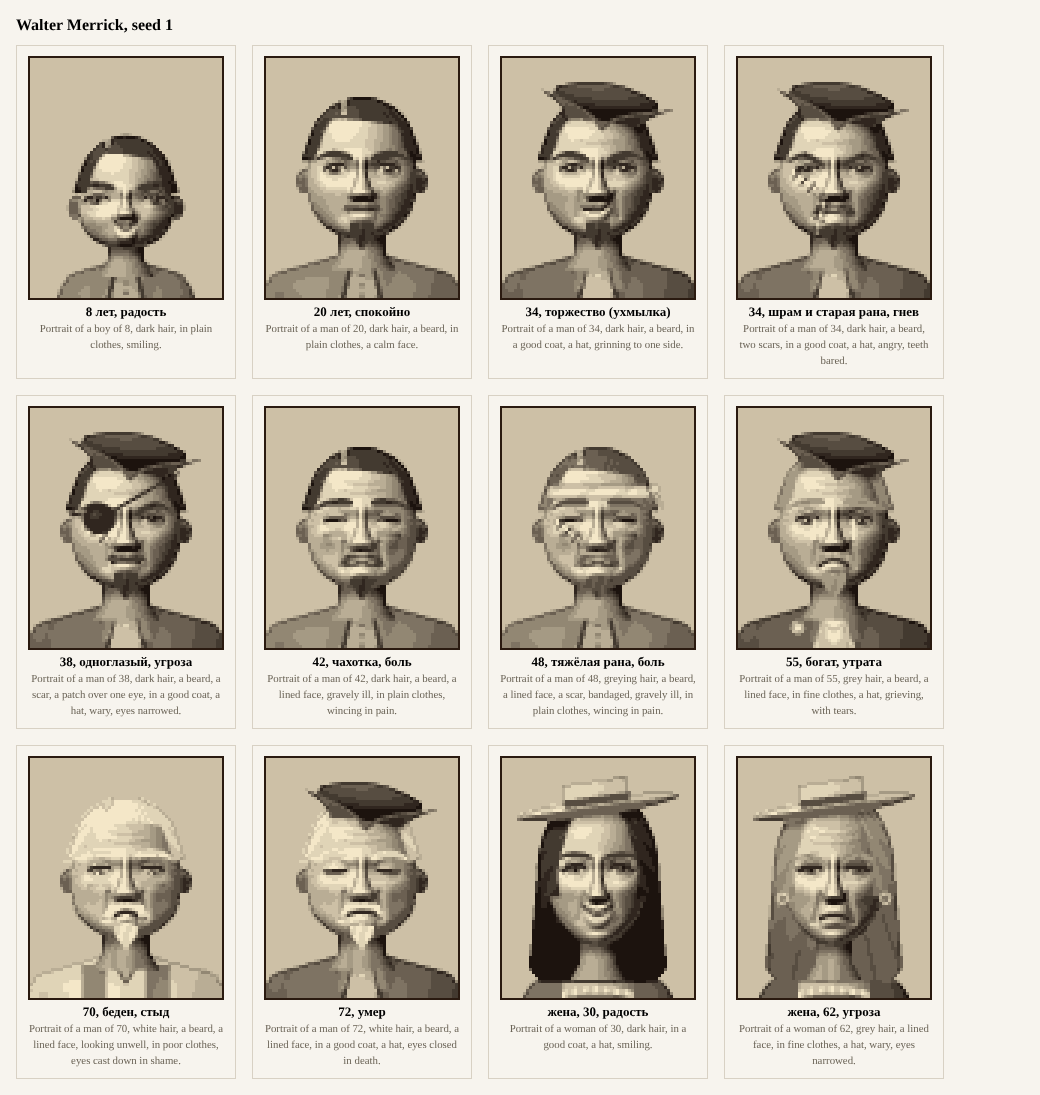
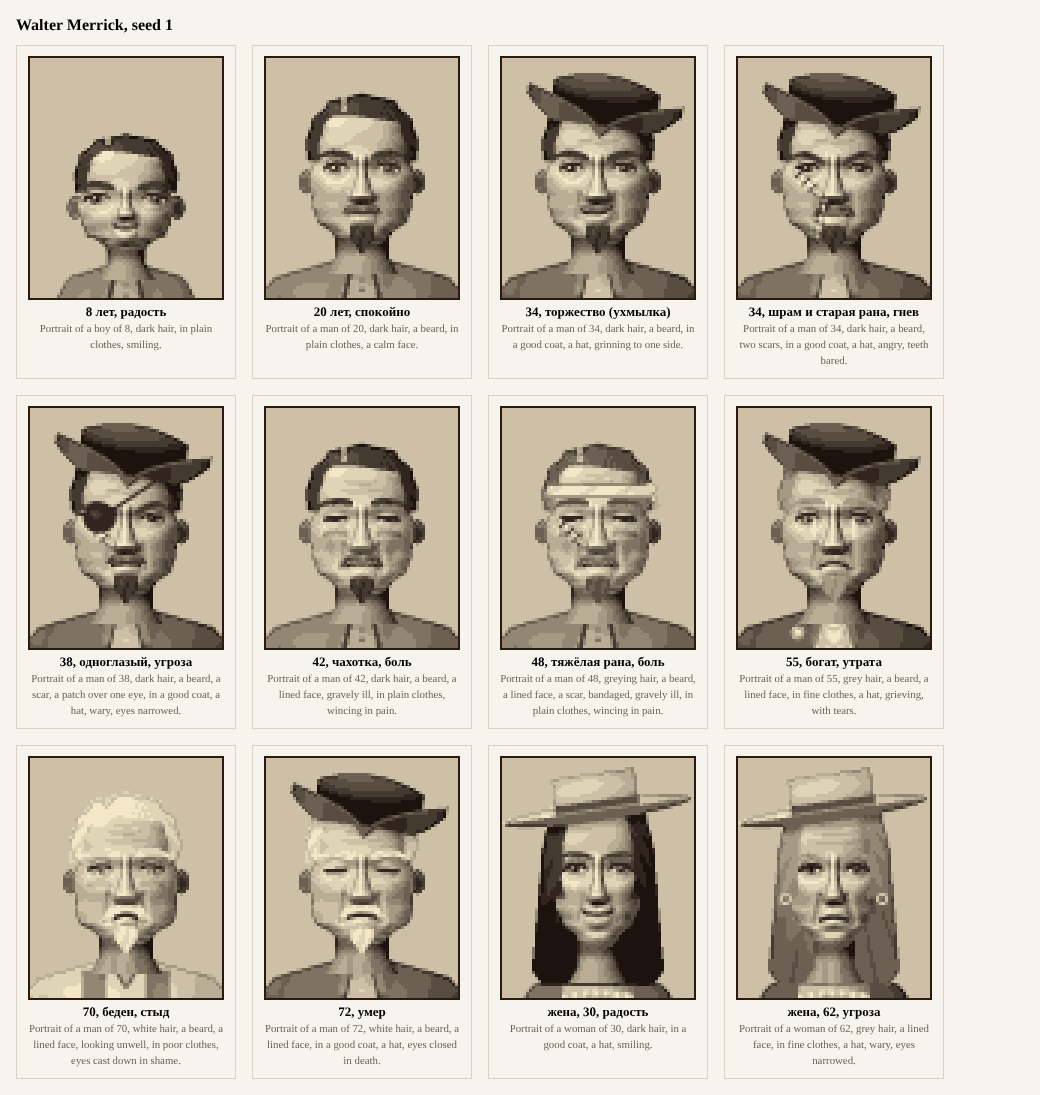
Portrait v4: human head outline, bigger headwear, calmer expressions
Claude-Session: https://claude.ai/code/session_014zG9ERHXHrjVD8Nn1PZvNX

diff --git a/src/ui/portrait/geometry.ts b/src/ui/portrait/geometry.ts
@@ -36,25 +36,25 @@ const X = (e: Partial<Expression>): Expression => ({ curve: 0, smirk: 0, open: 0
 
 export const EXPRESSIONS: Record<string, Expression> = {
   neutral: X({}),
-  joy: X({ curve: 1.5, open: 0.7, teeth: true, eyes: 0.8, lowerLid: 0.5, brows: -0.3, cheeks: 1 }),
-  triumph: X({ curve: 0.4, smirk: 1.6, eyes: 0.85, lowerLid: 0.3, brows: 0.4, cheeks: 0.5 }),
+  joy: X({ curve: 0.85, open: 0.3, teeth: true, eyes: 0.85, lowerLid: 0.35, brows: -0.15, cheeks: 0.6 }),
+  triumph: X({ curve: 0.25, smirk: 0.9, eyes: 0.85, lowerLid: 0.25, brows: 0.3, cheeks: 0.3 }),
   threat: X({ curve: -0.2, pressed: true, eyes: 0.65, lowerLid: 0.25, brows: 1.3 }),
-  pain: X({ curve: -1, open: 1.2, teeth: true, eyes: 0.25, lowerLid: 0.5, brows: -1.3, cheeks: 0.6 }),
-  loss: X({ curve: -1.2, eyes: 0.75, gaze: 0.5, brows: -1.5, tears: true }),
-  shame: X({ curve: -0.5, pressed: true, eyes: 0.5, gaze: 1.3, brows: -0.8 }),
-  anger: X({ curve: -0.8, open: 0.9, teeth: true, eyes: 0.7, lowerLid: 0.3, brows: 1.9 }),
+  pain: X({ curve: -0.6, open: 0.7, teeth: true, eyes: 0.35, lowerLid: 0.4, brows: -1, cheeks: 0.4 }),
+  loss: X({ curve: -0.8, eyes: 0.8, gaze: 0.5, brows: -1.2, tears: true }),
+  shame: X({ curve: -0.35, pressed: true, eyes: 0.55, gaze: 1.2, brows: -0.6 }),
+  anger: X({ curve: -0.5, open: 0.5, teeth: true, eyes: 0.75, lowerLid: 0.25, brows: 1.5 }),
   dead: X({ curve: -0.3, open: 0.4, eyes: 0, brows: 0 }),
 };
 
 /**
- * Head shapes below the cheekbones: `p` squares the jaw (2 a soft oval, 4 a square jaw), `q` narrows it toward the
- * chin; `chin` is the chin's width as a part of the head's, `long` extra length.
+ * Head shapes: width of the jaw at its angle and of the chin as parts of the head's width, width of the cheekbones,
+ * extra length. A man's jaw and chin are wider and flatter; a woman's narrower and rounder.
  */
 const HEADS = [
-  { p: 2.3, q: 0.06, chin: 0.34, long: 0 },
-  { p: 2.6, q: 0, chin: 0.42, long: -0.8 },
-  { p: 3.6, q: 0.02, chin: 0.5, long: 0 },
-  { p: 1.9, q: 0.12, chin: 0.3, long: 1.2 },
+  { jaw: 0.82, chin: 0.36, cheek: 1, long: 0 },
+  { jaw: 0.9, chin: 0.44, cheek: 1.03, long: -0.6 },
+  { jaw: 0.94, chin: 0.5, cheek: 1, long: 0 },
+  { jaw: 0.76, chin: 0.32, cheek: 0.98, long: 1.2 },
 ];
 /** Eyes: half width, half height of the opening, droop of the outer corner (+ down), heavy upper lid. */
 const EYES = [
@@ -82,9 +82,9 @@ const NOSES = [
 /** Mouth: half width, fullness of the upper and lower lip, corners at rest (+ down). */
 const MOUTHS = [
   { w: 3.9, up: 0.9, low: 1.2, rest: 0 },
-  { w: 4.5, up: 0.6, low: 0.9, rest: 0.15 },
+  { w: 4.5, up: 0.6, low: 0.9, rest: 0 },
   { w: 3.7, up: 1.2, low: 1.6, rest: 0 },
-  { w: 4.2, up: 0.7, low: 1.0, rest: 0.45 },
+  { w: 4.2, up: 0.7, low: 1.0, rest: 0.2 },
 ];
 /** Ears: height, how far they stand out. */
 const EARS = [
@@ -131,11 +131,11 @@ export function geometry(spec: FaceSpec): Geometry {
   const female = spec.sex === 'female';
   const old = spec.stage === 'old';
   const shape = HEADS[female && spec.head.variant === 2 ? 0 : spec.head.variant] ?? HEADS[0]!;
-  // a woman's jaw is softer, her chin rounder
-  const head = female ? { ...shape, p: Math.min(shape.p, 2.2), q: shape.q + 0.04 } : shape;
+  // a woman's jaw is narrower, her chin smaller and rounder; a child's face is soft
+  const head = female ? { ...shape, jaw: shape.jaw - 0.07, chin: shape.chin - 0.06 } : child ? { ...shape, jaw: 0.86, chin: 0.42 } : shape;
   // a narrow head, taller than wide; a child's is rounder
-  const rx = (child ? 12.6 : female ? 13.4 : 14.6) + spec.headWidth * 0.9;
-  const ry = (child ? 15 : female ? 17.6 : 18.6) + spec.headHeight * 0.9 + head.long;
+  const rx = (child ? 12.4 : female ? 12.5 : 13.5) + spec.headWidth * 0.8;
+  const ry = (child ? 15.4 : female ? 18.4 : 19.6) + spec.headHeight * 0.9 + head.long;
   const cx = 32;
   const cy = (child ? 41 : 35) + spec.head.dy * 0.6;
   const top = cy - ry;
@@ -177,27 +177,46 @@ export function geometry(spec: FaceSpec): Geometry {
     mouth: { ...mouth, w: mouth.w * (child ? 0.82 : female ? 0.92 : 1) + spec.mouth.dx * 0.3 },
     ear: EARS[spec.ears.variant] ?? EARS[0]!,
     earY: (browY + noseBottom) / 2 + 0.5 + spec.ears.dy * 0.4,
-    neckHalf: child ? 4.6 : female ? 4.6 : 6,
+    neckHalf: child ? 4.8 : female ? 5 : 6.8,
     shoulders: chin + (child ? 3 : female ? 4.5 : 3.5),
     shoulderHalf,
     slope: female ? 0.36 : child ? 0.3 : 0.28,
   };
 }
 
-/** Half width of the head at height y (negative outside): a rounded skull, cheekbones, a jaw and a chin. */
+/** Half width of the head at height y (negative outside): crown, temples, cheekbones, cheeks, the angle of the jaw, chin. */
 export function headHalf(g: Geometry, y: number, grow = 0): number {
-  const rx = g.rx + grow;
   const top = g.top - grow;
-  const chin = g.chin + grow * 0.6;
+  const chin = g.chin + grow * 0.5;
   if (y < top || y > chin) return -1;
-  // the skull: an ellipse down to the cheekbones
-  const cheek = g.eyeY + 1.5;
-  if (y <= cheek) {
-    const t = (cheek - y) / (cheek - top);
-    return rx * Math.sqrt(Math.max(0, 1 - t ** 2.2)) * (1 - 0.04 * gauss(0, t, 0, 0.45, 1, 0.2));
+  const h = g.chin - g.top;
+  const { jaw, chin: chinW, cheek } = g.head;
+  const round = g.female || g.child ? 0.45 : 0.75;
+  // the outline through points, each a height and a width as part of the head's half width
+  const points: [number, number][] = [
+    [g.top, 0],
+    [g.top + 0.07 * h, 0.6],
+    [g.top + 0.2 * h, 0.88],
+    [g.browY - 2.5, 0.97],
+    [g.browY + 0.8, 0.95],
+    [g.eyeY + 2, cheek],
+    [g.mouthY - 2.2, (cheek + jaw) / 2 + 0.02],
+    [g.mouthY + 1.5, jaw],
+    [g.chin - 2.4, chinW + 0.14],
+    [g.chin - 0.7, chinW],
+    [g.chin, chinW * round],
+  ];
+  // a grown outline (for hair) is the same shape, scaled
+  const yy = g.top + ((y - top) * h) / (chin - top);
+  let w = 0;
+  for (let i = 1; i < points.length; i++) {
+    const [y1, w1] = points[i]!;
+    if (yy > y1 && i < points.length - 1) continue;
+    const [y0, w0] = points[i - 1]!;
+    const s = y1 > y0 ? Math.min(1, Math.max(0, (yy - y0) / (y1 - y0))) : 1;
+    w = w0 + (w1 - w0) * (1 - Math.cos(Math.PI * s)) / 2;
+    break;
   }
-  // one smooth curve from the cheekbones down the jaw to the chin
-  const u = (y - cheek) / (chin - cheek);
-  const jowls = g.old && !g.female ? 0.5 * gauss(0, u, 0, 0.6, 1, 0.2) : 0;
-  return rx * Math.sqrt(Math.max(0, 1 - u ** g.head.p)) * (1 - g.head.q * u * u) + jowls;
+  const jowls = g.old && !g.female ? 0.05 * gauss(0, y, 0, g.mouthY + 1, 1, 2.5) : 0;
+  return (g.rx + grow) * (w + jowls);
 }

diff --git a/src/ui/portrait/dress.ts b/src/ui/portrait/dress.ts
@@ -107,19 +107,20 @@ function tricorn(g: Geometry, c: Sample, x0: number, y0: number, kind: Headwear,
   const scale = g.female ? 0.85 : 1;
   const [x, y] = tilt ? rotate(x0, y0, g.cx, g.hairline, tilt) : [x0, y0];
   const cx = g.cx + (tilt ? 1.2 : 0);
-  const base = g.hairline - 0.6 + seat;
-  const half = (g.rx + 3.6) * scale;
+  const base = g.hairline + 1.6 + seat;
+  const half = (g.rx + 6.8) * scale;
   const ad = Math.abs(x - cx);
   if (ad > half) return;
   const r = ad / half;
   // the front corner hangs over the brow; the side corners rise level with the crown
-  const point = base + 2.4;
-  const corner = g.top - 2.2 + seat;
+  const point = base + 3;
+  const corner = g.top - 2 + seat;
   const edge = point - (point - corner) * r ** 0.45;
   const skull = headHalf(g, base);
-  const lower = ad <= skull ? base + 0.6 * (ad / skull) ** 2 : base + 0.6 - ((ad - skull) / (half - skull)) ** 0.6 * (base + 0.6 - corner);
-  const crownTop = g.top - 6.2 + seat;
-  const crown = ad < g.rx * 0.95 && y > crownTop + 3 * (ad / (g.rx * 0.95)) ** 2 && y < edge + 0.5;
+  // the wings stay thick to their blunt ends
+  const lower = ad <= skull ? base + 0.6 * (ad / skull) ** 2 : base + 0.6 - ((ad - skull) / (half - skull)) ** 1.6 * (base + 0.6 - corner - 2.6);
+  const crownTop = g.top - 7 + seat;
+  const crown = ad < g.rx * 1.05 && y > crownTop + 3 * (ad / (g.rx * 1.05)) ** 2 && y < edge + 0.5;
   const panel = y >= edge && y <= Math.max(lower, edge);
   const tip = y >= base && y <= point && ad < (point - y) * 0.9 + 0.3;
   if (!crown && !panel && !tip) {
@@ -143,7 +144,7 @@ function headwearShape(g: Geometry, c: Sample, x: number, y: number, a: Part): v
   const seat = a.dy * 0.8;
   const cx = g.cx;
   const ad = Math.abs(x - cx);
-  const base = g.hairline - 0.5 + seat;
+  const base = g.hairline + 1.2 + seat;
   switch (kind) {
     case 'tricorn':
     case 'tricorn_cocked':
@@ -152,17 +153,17 @@ function headwearShape(g: Geometry, c: Sample, x: number, y: number, a: Part): v
       return;
     case 'felt_hat': {
       // a round crown and a wide brim seen a little from below
-      const crown = ad < g.rx * 0.82 && y > g.top - 5.5 + seat + 1.2 * (ad / g.rx) ** 4 && y < base;
-      const brim = inEllipse(x, y, cx, base, g.rx + 6.5, 1.8);
+      const crown = ad < g.rx * 1.02 && y > g.top - 7.5 + seat + 1.5 * (ad / g.rx) ** 4 && y < base;
+      const brim = inEllipse(x, y, cx, base, g.rx + 10, 2.3);
       if (crown) c.put(1, y > base - 2.2 ? 0.34 : felt(0.18, x, y, cx, g.top, g.rx, 5), 'headwear');
-      else if (brim) c.put(1, y > base ? 0.1 + 0.08 * lambert((x - cx) / (g.rx + 6), 0) : felt(0.22, x, y, cx, base, g.rx + 6, 2), 'headwear');
-      else brimShadow(c, y, base + 1.8, 0.3);
+      else if (brim) c.put(1, y > base ? 0.1 + 0.08 * lambert((x - cx) / (g.rx + 10), 0) : felt(0.22, x, y, cx, base, g.rx + 10, 2), 'headwear');
+      else brimShadow(c, y, base + 2.3, 0.3);
       return;
     }
     case 'wool_cap': {
       // a soft knitted cap, its top falling to one side, a rolled band
       const lean = (y < g.top + 2 ? (g.top + 2 - y) * 0.5 : 0);
-      const inside = inEllipse(x - lean, y, cx, base - 1, g.rx + 1.4, g.ry * 0.62) && y < base + 0.6;
+      const inside = inEllipse(x - lean, y, cx, base - 1, g.rx + 2.2, g.ry * 0.78) && y < base + 0.6;
       if (!inside) {
         brimShadow(c, y, base + 0.6, 0.15);
         return;
@@ -173,13 +174,13 @@ function headwearShape(g: Geometry, c: Sample, x: number, y: number, a: Part): v
     }
     case 'turban': {
       // cloth wound round the head: a full rounded mass with folds running across it
-      const inside = inEllipse(x, y, cx, g.top + 1.5 + seat, g.rx + 3.4, g.ry * 0.55) && y < base + 1 - 0.8 * (1 - (ad / g.rx) ** 2);
+      const inside = inEllipse(x, y, cx, g.top + 1 + seat, g.rx + 5, g.ry * 0.72) && y < base + 0.5 - 1.2 * (1 - (ad / g.rx) ** 2);
       if (!inside) {
         brimShadow(c, y, base + 0.5, 0.15);
         return;
       }
       const wind = 0.07 * Math.cos((x - cx) * 0.7 + (y - g.top) * 1.5 + (x > cx ? 1.2 : 0));
-      c.put(1, felt(0.68, x, y, cx, g.top, g.rx + 3, g.ry * 0.5) + wind, 'headwear');
+      c.put(1, felt(0.68, x, y, cx, g.top, g.rx + 5, g.ry * 0.7) + wind, 'headwear');
       if (g.spec.attire >= 3 && inEllipse(x, y, cx, base - 2.5, 1.2, 1.5)) c.put(1, 0.95, 'jewel');
       return;
     }
@@ -199,8 +200,8 @@ function headwearShape(g: Geometry, c: Sample, x: number, y: number, a: Part): v
       return;
     }
     case 'fur_cap': {
-      const half = g.rx + 1.2;
-      const inside = ad < half && y > g.top - 5 + seat + (ad > half - 2 ? (ad - half + 2) * 1.2 : 0) && y < base + 0.5;
+      const half = g.rx + 2.6;
+      const inside = ad < half && y > g.top - 8 + seat + (ad > half - 2 ? (ad - half + 2) * 1.2 : 0) && y < base + 0.5;
       if (!inside) {
         brimShadow(c, y, base + 0.5);
         return;
@@ -230,8 +231,8 @@ function headwearShape(g: Geometry, c: Sample, x: number, y: number, a: Part): v
     }
     case 'mob_cap': {
       // a puffed linen cap with a frill along the brow and a ribbon round it
-      const frill = g.hairline + 0.6 + seat + 0.5 * Math.cos(x * 2);
-      const inside = inEllipse(x, y, cx, g.top + 2 + seat, g.rx + 2.8, g.ry * 0.62) && y < frill;
+      const frill = g.hairline + 1 + seat + 0.5 * Math.cos(x * 2);
+      const inside = inEllipse(x, y, cx, g.top + 2 + seat, g.rx + 4, g.ry * 0.78) && y < frill;
       if (!inside) {
         brimShadow(c, y, frill, 0.1);
         return;
@@ -260,8 +261,8 @@ function headwearShape(g: Geometry, c: Sample, x: number, y: number, a: Part): v
       const tilt = kind === 'straw_hat_tilted' ? -0.14 : 0;
       const [rx, ry] = tilt ? rotate(x, y, cx, base, tilt) : [x, y];
       const rad = Math.abs(rx - cx);
-      const crown = rad < g.rx * 0.66 && ry > g.top - 3.5 + seat && ry < base;
-      const brim = inEllipse(rx, ry, cx, base, g.rx + 8, 2.3);
+      const crown = rad < g.rx * 0.9 && ry > g.top - 4.5 + seat && ry < base;
+      const brim = inEllipse(rx, ry, cx, base, g.rx + 12, 2.6);
       if (crown) c.put(1, Math.abs(ry - (base - 1.6)) < 0.9 ? 0.25 : felt(0.66, rx, ry, cx, g.top, g.rx, 4), 'headwear');
       else if (brim) c.put(1, ry > base ? 0.36 : felt(0.72, rx, ry, cx, base, g.rx + 8, 2) + 0.04 * Math.cos(Math.atan2(ry - base, rx - cx) * 30), 'headwear');
       else brimShadow(c, ry, base + 2.3, 0.28);

diff --git a/src/ui/portrait/face.ts b/src/ui/portrait/face.ts
@@ -22,7 +22,8 @@ export function faceHeight(g: Geometry, x: number, y: number): number {
   if (half <= 0) return 0;
   const u = clamp((x - g.cx) / half, -1, 1);
   const t = clamp((y - g.cy) / g.ry, -1, 1);
-  let h = g.rx * 0.9 * Math.sqrt(1 - u * u) * (0.62 + 0.38 * Math.sqrt(1 - t * t));
+  // a broad front plane that turns sharply at the sides: a head, not a ball
+  let h = g.rx * 0.9 * Math.sqrt(Math.max(0, 1 - Math.abs(u) ** 3)) * (0.62 + 0.38 * Math.sqrt(1 - t * t));
   const { cx, eyeY, eyeSep, eye, nose, browY, noseBottom, mouthY, mouth } = g;
   const male = !g.female && !g.child;
   // brow ridge and temples
@@ -78,7 +79,7 @@ export function skin(g: Geometry, c: Sample, h: number, hl: number, hr: number, 
   const diffuse = clamp((-dx * LIGHT_DIR[0] - dy * LIGHT_DIR[1] + LIGHT_DIR[2]) / len);
   // hollows hold shadow
   const cavity = clamp(((hl + hr + hu + hd - 4 * h) / (step * step)) * 0.06, -0.15, 0.25);
-  let t = 0.04 + 0.92 * diffuse - cavity;
+  let t = 0.16 + 0.74 * diffuse - cavity;
   if (g.spec.illness > 0 || g.spec.dead) t = t * 0.82 + 0.16;
   c.put(1, t, 'head');
 }

diff --git a/src/ui/portrait/hair.ts b/src/ui/portrait/hair.ts
@@ -18,7 +18,7 @@ function hairTone(g: Geometry, x: number, y: number, part: Part | null): number 
   const curly = part?.variant === 2;
   const angle = Math.atan2(y - (g.top - 6), x - g.cx);
   // curls as soft round locks, not a fine pattern
-  const strands = curly ? 0.06 * Math.cos(x * 0.8 + Math.sin(y * 0.7) * 1.5) * Math.cos(y * 0.75) : 0.035 * Math.cos(angle * 48);
+  const strands = curly ? 0.035 * Math.cos(x * 0.8 + Math.sin(y * 0.7) * 1.5) * Math.cos(y * 0.75) : 0.035 * Math.cos(angle * 48);
   const sheen = 0.1 * gauss(x, y, g.cx - g.rx * 0.4, g.top + 2.5, g.rx * 0.35, 1.8);
   return t + 0.22 * lit - 0.08 + strands + sheen;
 }
